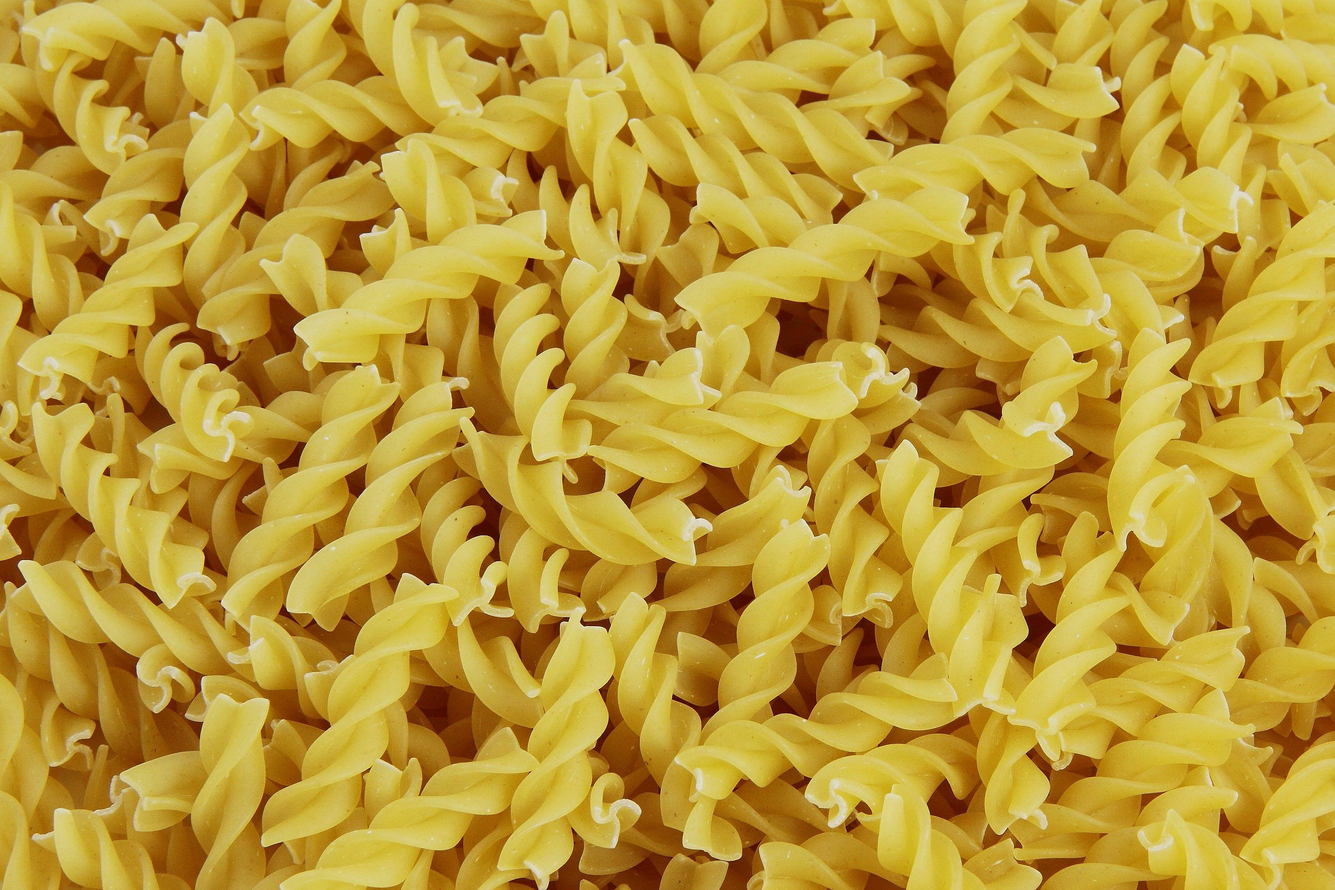
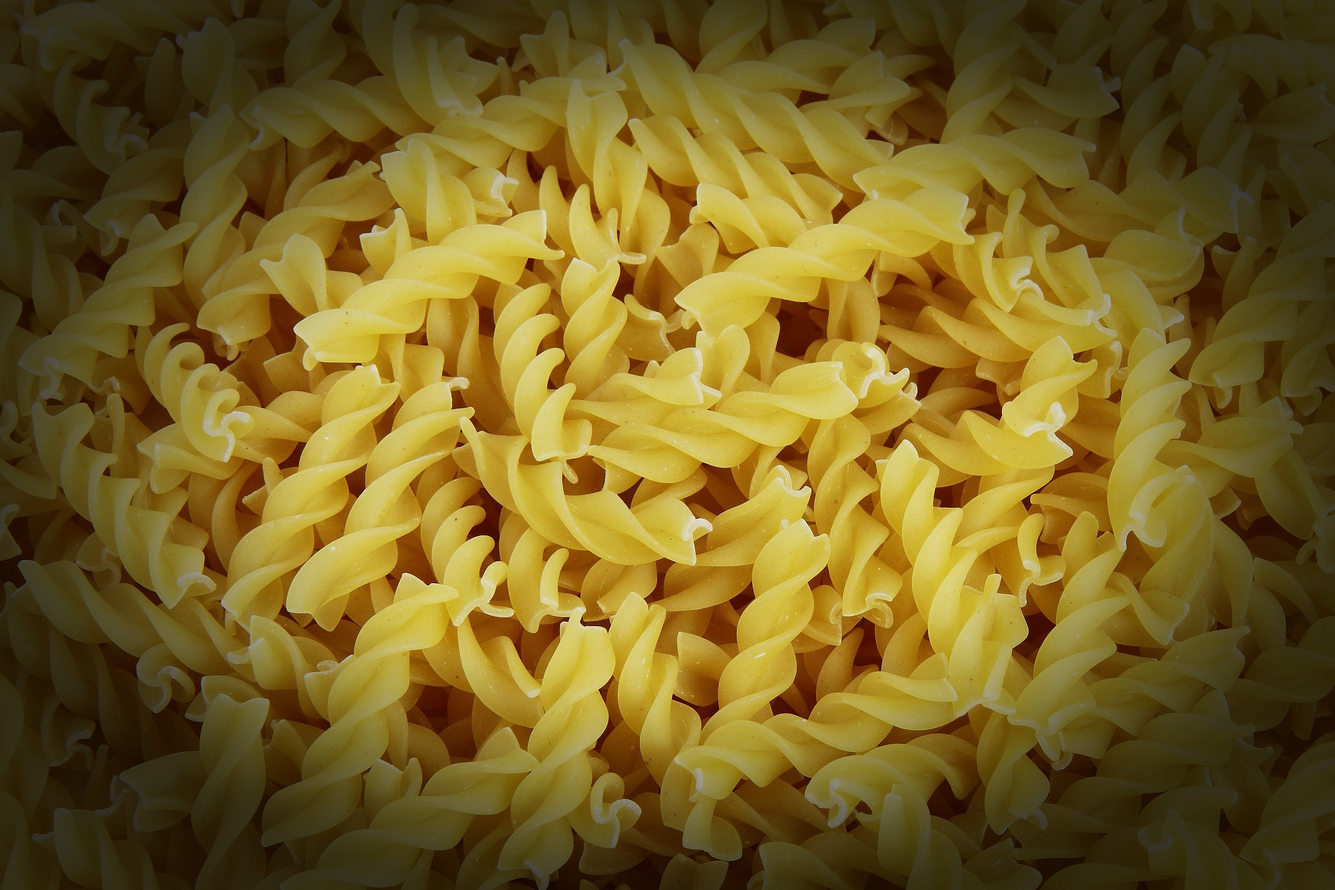
update readme and add vignette to landing page

diff --git a/client/src/components/Background/Background.css b/client/src/components/Background/Background.css
@@ -5,4 +5,5 @@
   object-fit: cover;
   position: fixed;
   left: 0;
+  box-shadow: inset 0px 0px 40vh #000000;
 }

diff --git a/README.md b/README.md
@@ -2,9 +2,9 @@
 
 Food Mood is a web application that uses your current location and selfie to suggest a nearby restaurant!
 
-I build this web app from scratch using React.js, Node.js and Express.js. It's an ERN stack! For determining the mood from the photo, I used Amazon Rekognition, and for determining the restaurant, I used Yelp's Fusion API. I manually deployed this app through an AWS EC2 instance and set up the security certificate. Currently setting up an AWS CodePipeline to automate future deployments.
+I build this web app myself using React.js, Node.js and Express.js. It's an ERN stack! For determining the mood from the photo, I used Amazon Rekognition, and for determining the restaurant, I used Yelp's Fusion API. I manually deployed this app through an AWS EC2 instance and set up the security certificate. I also set up an AWS CodePipeline that automatically deploys changes to this website using AWS CodeDeploy.
 
-#### This was originally built as an entry to Capital One's Software Engineering Summit challenge. You can check out the original project here: https://github.com/samuel-ping/Old-Food-Mood
+##### This was originally built as an entry to Capital One's Software Engineering Summit challenge. You can check out the original project here: https://github.com/samuel-ping/Old-Food-Mood and the original coding challenge here: https://www.mindsumo.com/contests/d052bcf8-4580-4922-95ef-a9f6ceaf0f10
 
 ###### Photos don't require attribution but I'll put them here:
 
